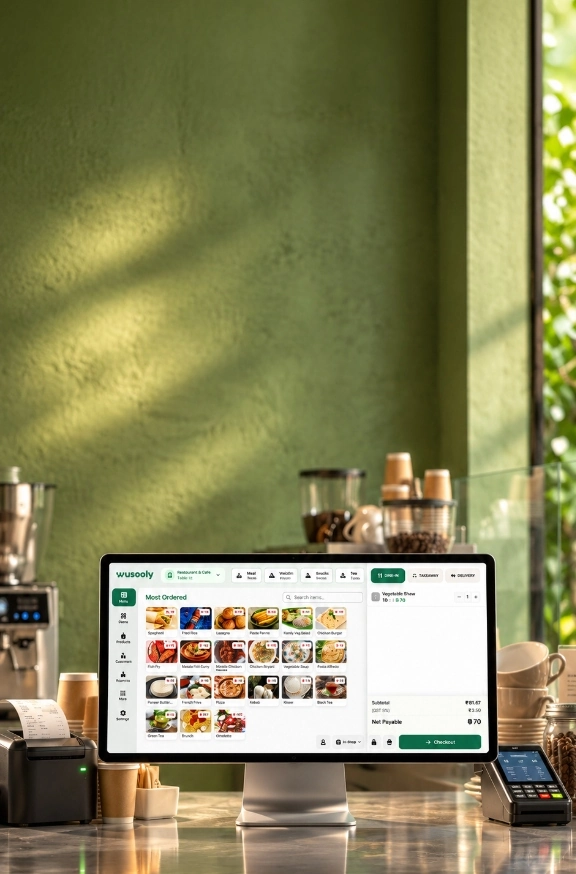
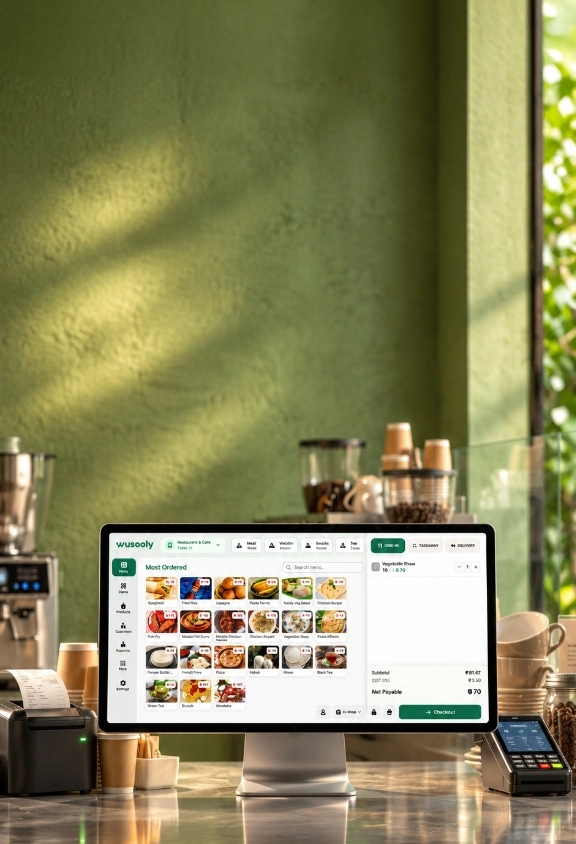
fix(mobile): restore full viewport height 100svh and crop table and top wall for focused hero display

Changed region(s): [[0.0, 0.0, 1.0, 0.955], [0.375, 0.2464, 0.4062, 0.2773], [0.3125, 0.2156, 0.3438, 0.2464]]

diff --git a/app/page.js b/app/page.js
@@ -240,7 +240,7 @@ export default function Home() {
               sizes="(max-width: 768px) 1px, 100vw"
             />
             <Image
-              src="/assets/hero-retail-pos-mobile-v4.webp"
+              src="/assets/hero-retail-pos-mobile-v5.webp"
               alt="Wusooly POS display in clean forest-green studio mobile view"
               fill
               priority
@@ -266,7 +266,7 @@ export default function Home() {
               sizes="(max-width: 768px) 1px, 100vw"
             />
             <Image
-              src="/assets/hero-cafe-pos-mobile-v4.webp"
+              src="/assets/hero-cafe-pos-mobile-v5.webp"
               alt="Wusooly Café POS studio setup mobile view"
               fill
               priority

diff --git a/app/page.module.css b/app/page.module.css
@@ -240,7 +240,8 @@
 
 @media (max-width: 768px) {
   .heroSection {
-    min-height: auto;
+    min-height: 100vh;
+    min-height: 100svh;
   }
 
   .bgDesktop {
@@ -279,7 +280,7 @@
   }
 
   .monitorViewSpacer {
-    min-height: clamp(210px, 32vh, 250px);
+    min-height: clamp(280px, 42vh, 360px);
   }
 }
 
